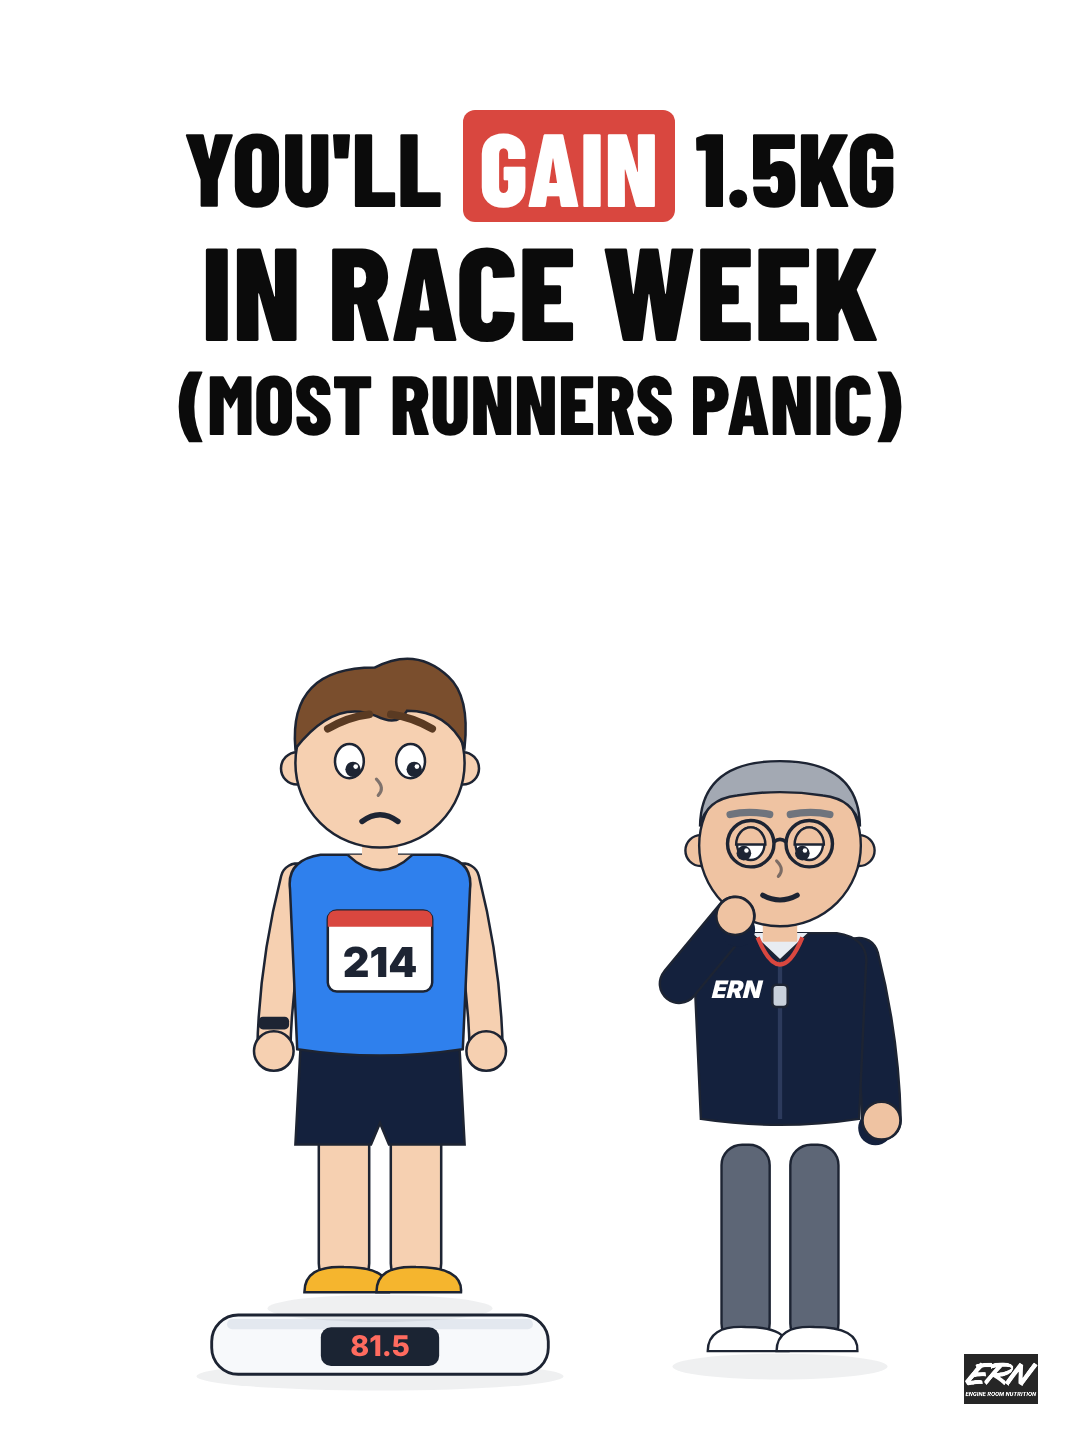
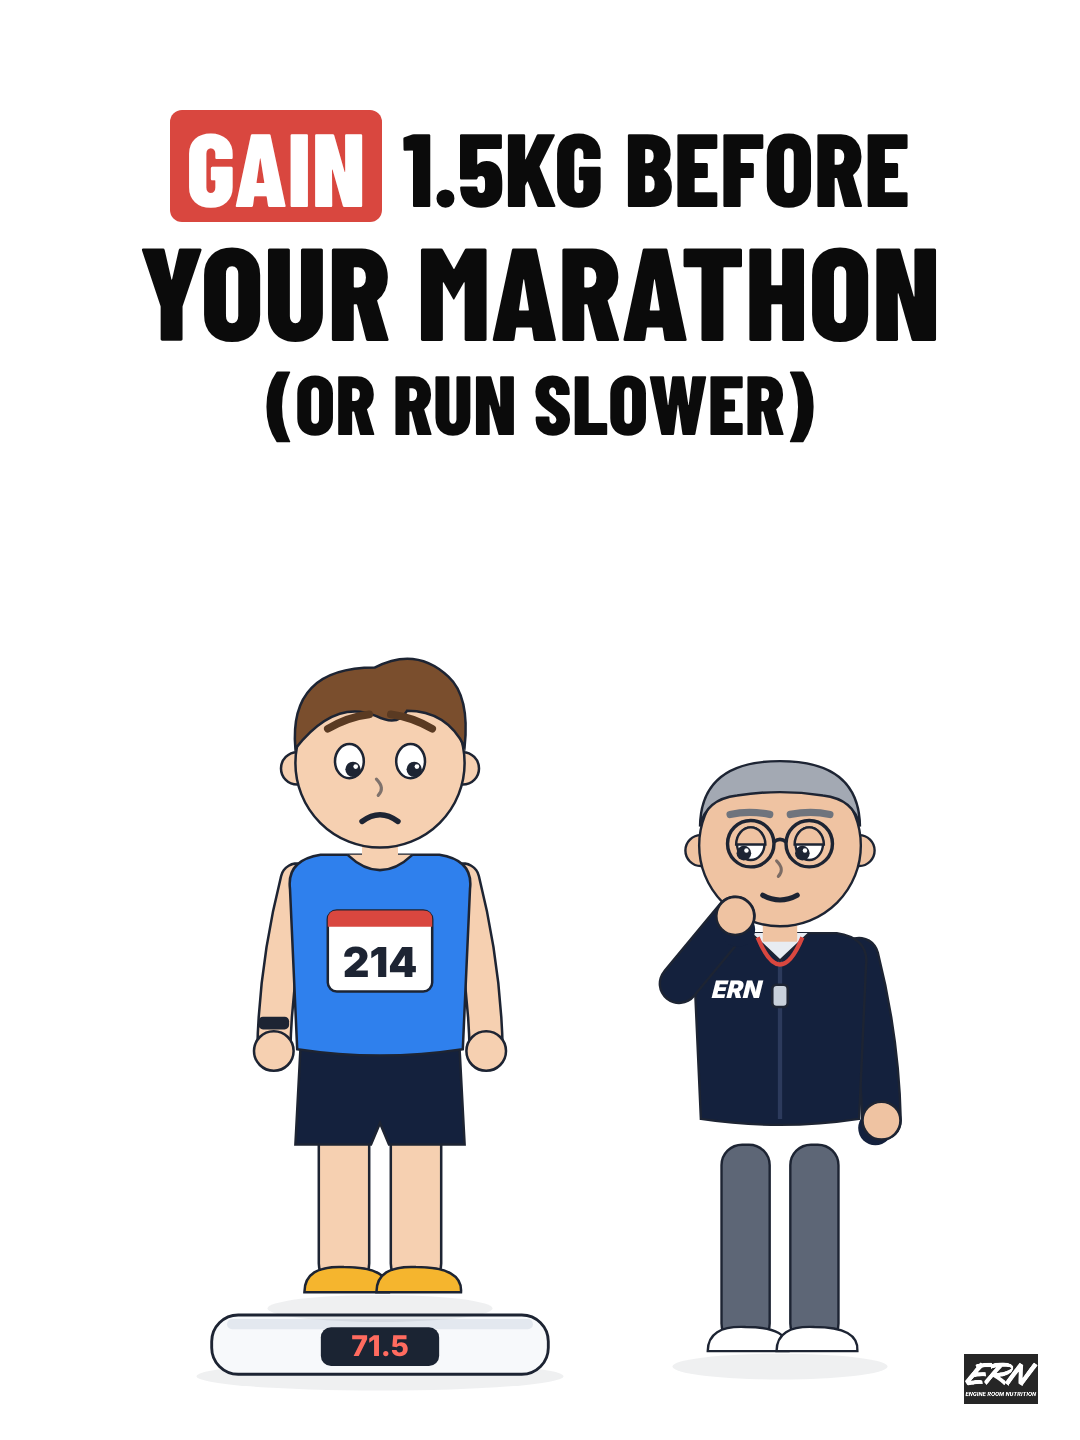
Heavier carousel: cover v3 GAIN 1.5KG BEFORE / YOUR MARATHON / (OR RUN SLOWER), slides 2-5 rewritten, weights 70 to 71.5kg on every readout, scales and caption
Claude-Session: https://claude.ai/code/session_019dGKws7fHV6RYzHGcGrSoU

Changed region(s): [[0.1222, 0.0625, 0.8861, 0.3125]]

diff --git a/motion/carousel-heavier/carousel.html b/motion/carousel-heavier/carousel.html
@@ -1,5 +1,5 @@
 <!doctype html><html><head><meta charset="utf-8"><title>Heavier carousel</title>
-<!-- YOU'LL GAIN 1.5KG / IN RACE WEEK / (MOST RUNNERS PANIC): 19 slides, our own runner and coach.
+<!-- GAIN 1.5KG BEFORE / YOUR MARATHON / (OR RUN SLOWER): 19 slides, our own runner and coach.
      ?n=1..19, ?h=1440 (TikTok photo mode, 3:4) or ?h=1350 (Instagram, 4:5). -->
 <style>
 @font-face{font-family:'Barlow Condensed';font-weight:800;src:url(../fonts/BarlowCondensed-800-normal.woff2) format('woff2');}
@@ -154,19 +154,19 @@ function panel(x,y,w,h,label){ return `<g><rect x="${x}" y="${y+6}" width="${w}"
 
 // ---- slides ----
 const R='runner', C='coach', cy=CARDY;
-const twoCards=(red)=>card(300,cy,400,160,'MONDAY','80kg')+card(780,cy,400,160,'RACE MORNING','81.5kg',red?RED:OL);
+const twoCards=(red)=>card(300,cy,400,160,'MONDAY','70kg')+card(780,cy,400,160,'RACE MORNING','71.5kg',red?RED:OL);
 const SL=[
- ['COVER', ()=>scales(380,FLOOR-6,'81.5',1.02)+person(R,380,.9,'worried',{gy:8,gx:4,y:FLOOR-58})+person(C,780,.86,'calm',{gx:-8,gy:4,l:'chin'})],
- ["Same runner. 80kg on Monday, 81.5kg on race morning. Which one runs faster?", ()=>twoCards(false)+person(R,290,1.1,'ask',{r:'chin',gx:6,y:H+180})+person(C,790,1.1,'calm',{gx:-6,y:H+180})],
- ["Monday, obviously. Lighter is faster.", ()=>card(540,cy,420,160,'MONDAY','80kg')+person(R,540,1.25,'sure',{l:'hip',r:'thumb',y:H+250})],
- ["Race morning.", ()=>card(540,cy,420,160,'RACE MORNING','81.5kg',RED)+person(C,540,1.25,'calm',{l:'hip',y:H+250})],
- ["Wait. Why?", ()=>person(R,540,1.45,'wide',{l:'out',r:'out',y:H+330})],
+ ['COVER', ()=>scales(380,FLOOR-6,'71.5',1.02)+person(R,380,.9,'worried',{gy:8,gx:4,y:FLOOR-58})+person(C,780,.86,'calm',{gx:-8,gy:4,l:'chin'})],
+ ["Same runner. Monday: 70kg. Race morning: 71.5kg.", ()=>twoCards(false)+person(R,290,1.1,'ask',{r:'chin',gx:6,y:H+180})+person(C,790,1.1,'calm',{gx:-6,y:H+180})],
+ ["Heavier is faster? That's backwards.", ()=>card(540,cy,420,160,'MONDAY','70kg')+person(R,540,1.25,'ask',{l:'hip',r:'chin',gx:6,y:H+250})],
+ ["Race morning wins. Every time.", ()=>card(540,cy,420,160,'RACE MORNING','71.5kg',RED)+person(C,540,1.25,'calm',{l:'hip',y:H+250})],
+ ["Why?", ()=>person(R,540,1.45,'wide',{l:'out',r:'out',y:H+330})],
  ["Because that 1.5kg is fuel.", ()=>gauge(540,cy,1,'+1.5kg OF FUEL',.95)+person(C,500,1.35,'calm',{r:'out',gy:-4,y:H+300})],
  ["Every gram of fuel you store brings about 3 grams of water. That's your 1.5kg.", ()=>water(560,cy+70)+person(C,500,1.35,'neutral',{r:'out',gx:4,gy:-6,y:H+300})],
  ["Same runner. One of them just packed the fuel.", ()=>twoCards(true)+person(R,290,1.1,'wide',{gx:8,y:H+180})+person(C,790,1.1,'happy',{l:'thumb',y:H+180})],
  ["So I shouldn't cut carbs on Friday?", ()=>person(R,540,1.45,'ask',{r:'chin',gx:8,gy:-5,y:H+330})],
  ["Cut them and you'll start Sunday lighter. And emptier.", ()=>gauge(540,cy,.2,'EMPTIER',.95)+person(C,540,1.35,'serious',{l:'hip',y:H+300})],
- ["That's carb loading. The scales say heavier. Your legs say full.", ()=>scales(300,cy+80,'81.5',.9)+gauge(770,cy,1,'FULL',.85)+person(C,540,1.3,'happy',{l:'thumb',y:H+290})],
+ ["That's carb loading. The scales say heavier. Your legs say full.", ()=>scales(300,cy+80,'71.5',.9)+gauge(770,cy,1,'FULL',.85)+person(C,540,1.3,'happy',{l:'thumb',y:H+290})],
  ["OK. What else am I getting wrong?", ()=>person(R,540,1.45,'ask',{l:'hip',gx:-6,y:H+330})],
  ["Pasta party on Saturday night, or carbs at every meal from Friday?", ()=>panel(70,cy-10,450,250,'SATURDAY NIGHT')+plate(295,cy+150,150,'pasta')+panel(560,cy-10,450,250,'EVERY MEAL, FRI + SAT')+plate(650,cy+120,52,'bagel')+plate(770,cy+120,52,'rice')+juice(880,cy+150,74)+plate(700,cy+190,46,'toast')+banana(840,cy+200,.75)+person(R,300,1.0,'neutral',{gx:-6,gy:-6,y:H+150})+person(C,780,1.0,'calm',{gx:6,gy:-6,y:H+150})],
  ["The pasta party, surely. Everyone does it.", ()=>plate(810,cy+90,160,'pasta')+person(R,380,1.35,'sure',{r:'out',y:H+300})],
@@ -180,7 +180,7 @@ const sl=SL[n-1];
 const t=document.getElementById('t');
 if(sl[0]==='COVER'){
   t.style.display='none'; const cv=document.getElementById('cv'); cv.style.display='block';
-  cv.innerHTML=`<div class="l1">YOU'LL <span class="hl">GAIN</span> 1.5KG</div><div class="l2">IN RACE WEEK</div><div class="l3">(MOST RUNNERS PANIC)</div>`;
+  cv.innerHTML=`<div class="l1"><span class="hl">GAIN</span> 1.5KG BEFORE</div><div class="l2">YOUR MARATHON</div><div class="l3">(OR RUN SLOWER)</div>`;
 } else {
   t.style.top=TXT[0]+'px'; t.style.height=(TXT[1]-TXT[0])+'px'; t.textContent=sl[0];
   let fs=50; while(t.scrollHeight>TXT[1]-TXT[0] && fs>36){fs-=2;t.style.fontSize=fs+'px';}

diff --git a/ideas/engine-room-nutrition/2026-11-16-carousel-heavier.md b/ideas/engine-room-nutrition/2026-11-16-carousel-heavier.md
@@ -6,23 +6,23 @@ format: TikTok photo mode (ERN) tonight, 1080 x 1440 (3:4); Instagram carousel (
 images: motion/carousel-heavier/tiktok-3x4/slide-01..19.png, motion/carousel-heavier/instagram-4x5/slide-01..19.png (page motion/carousel-heavier/carousel.html, ?n=&h=)
 ---
 
-# YOU'LL GAIN 1.5KG / IN RACE WEEK / (MOST RUNNERS PANIC)
+# GAIN 1.5KG BEFORE / YOUR MARATHON / (OR RUN SLOWER)
 
 ## Gate fields
-- Cover OST: YOU'LL GAIN 1.5KG / IN RACE WEEK / (MOST RUNNERS PANIC), GAIN in red, in the fourth-hour title style. v1 (YOU'LL BE 1.5KG HEAVIER / ON RACE MORNING / (AND FASTER FOR IT)) answered slide 2's quiz on the cover (ledger row 1, my miss); the cover now shows the problem, as the yogurt cover does
-- OST score: 9/10 (P210): pulse words GAIN and PANIC, you, one second, a fight (weight gain is bad), a number, the Outsider stops, the pub test, the bracket sting, the verdict up top. Arguable: only we could post it. MOST RUNNERS PANIC is Luke's coaching read, not a statistic
+- Cover OST: GAIN 1.5KG BEFORE / YOUR MARATHON / (OR RUN SLOWER), GAIN in red (Luke 16 Nov, from the ideas chat's cover review: v2 scored 7/10, no fight, not only-us, "most runners panic" unsourced, scale 81.5 against the brief's 70 to 71.5). Earlier: v1 answered the quiz (row 1)
+- OST score: 10/10 (the ideas chat's score, P210): an order that sounds wrong, the viewer, the number, the threat in brackets as the reason to swipe; true (loading adds about 1 to 2 kg; loaded runners ran faster, Atkinson 2011)
 - Repeat line: The scales say heavier. Your legs say full.
 - Characters: our own. The runner (bib 214, blue vest, navy shorts, yellow shoes, brown hair, a watch); the coach (ERN navy jacket, grey hair, round glasses, a whistle on a red lanyard). Luke 16 Nov: the coach is drawn with light skin
-- Weights: Monday 80kg, race morning 81.5kg (Luke 16 Nov: start at the base weight)
+- Weights: Monday 70kg, race morning 71.5kg (Luke 16 Nov, the cover review; replaces his earlier 80kg). Every readout, the scales and the caption match
 
 ## The slides (one beat each; P211)
 | # | Picture | Text |
 |---|---|---|
-| 1 | Both: the runner on the scales (81.5), worried; the coach beside, hand on chin | **YOU'LL GAIN 1.5KG / IN RACE WEEK / (MOST RUNNERS PANIC)** (GAIN in a red box) |
-| 2 | Runner (waist-up close-up) | Same runner. 80kg on Monday, 81.5kg on race morning. Which one runs faster? |
-| 3 | Runner (waist-up close-up) | Monday, obviously. Lighter is faster. |
-| 4 | Coach (waist-up close-up) | Race morning. |
-| 5 | Runner (waist-up close-up) | Wait. Why? |
+| 1 | Both: the runner on the scales (71.5), worried; the coach beside, hand on chin | **GAIN 1.5KG BEFORE / YOUR MARATHON / (OR RUN SLOWER)** (GAIN in a red box) |
+| 2 | Both, closer; the two readouts (70kg, 71.5kg) | Same runner. Monday: 70kg. Race morning: 71.5kg. |
+| 3 | Runner (waist-up close-up) | Heavier is faster? That's backwards. |
+| 4 | Coach (waist-up close-up) | Race morning wins. Every time. |
+| 5 | Runner (waist-up close-up) | Why? |
 | 6 | Coach (waist-up close-up) | Because that 1.5kg is fuel. |
 | 7 | Coach (waist-up close-up) | Every gram of fuel you store brings about 3 grams of water. That's your 1.5kg. |
 | 8 | Both (both, closer) | Same runner. One of them just packed the fuel. |
@@ -39,7 +39,7 @@ images: motion/carousel-heavier/tiktok-3x4/slide-01..19.png, motion/carousel-hea
 | 19 | Both (both, closer) | Follow if you want to start Sunday with a full tank. |
 
 ## Caption
-Same runner, 80kg on Monday and 81.5kg on race morning, but faster on race morning. That extra weight is the fuel you packed.
+Same runner, 70kg on Monday and 71.5kg on race morning, but faster on race morning. That extra weight is the fuel you packed.
 
 Every gram of carbs your muscles store holds about 3 grams of water with it (2.7 to 4 g in a 2016 study), so the scales go up in race week. About 1 to 2 kg is typical, but that's a coaching estimate built on the water ratio, because no study has weighed runners through a load, so your number may differ.
 
@@ -58,9 +58,9 @@ How much did the scales go up in your race week?
 | Claim | Source | Status |
 |---|---|---|
 | About 3 grams of water with each gram of stored carbs | FACTS (carb loading and the scales: 2.7 to 4 g, 2016 J Appl Physiol; "about") | Pass |
-| 1.5kg heavier (80 to 81.5kg) | An example inside "about 1 to 2 kg is typical" (coaching estimate, said as one in the caption) | Pass |
-| The loaded runner runs faster | FACTS (Atkinson 2011; Hawley 1997) | Pass |
-| One dinner can't fit 700 grams; two days of meals can (Friday and Saturday) | FACTS (8 to 10 g/kg a day: 640 to 800 g at 80 kg; our 36 to 48 hour load, the carb load script) | Pass |
+| 1.5kg heavier (70 to 71.5kg) | An example inside "about 1 to 2 kg is typical" (coaching estimate, said as one in the caption) | Pass |
+| The loaded runner runs faster; "Race morning wins. Every time." (slide 4) | FACTS (Atkinson 2011: significantly faster on average; Hawley 1997) | Luke to OK: "every time" goes past the studies, which show an average |
+| One dinner can't fit 700 grams; two days of meals can (Friday and Saturday) | FACTS (8 to 10 g/kg a day: 560 to 700 g at 70 kg, the top of the range; our 36 to 48 hour load, the carb load script) | Pass |
 | Every meal from Friday, not one pasta dinner | The carb load script (Friday and Saturday meal plan; Saturday's last meal a normal plate at 5pm) | Pass |
 | Caption: 480 to 600 / 560 to 700 / 640 to 800 g; white, low fibre and fat; last meal 5pm; breakfast 3 hours out | The carb load script (16 Oct), arithmetic checked there | Pass |
 

diff --git a/CLAUDE.md b/CLAUDE.md
@@ -222,7 +222,7 @@ a new cause becomes a new row in the same turn.**
 
 **Posted 11 Nov 8:47pm: THE 10% MILEAGE RULE / FAILED ITS ONLY TRIAL.** ERN TikTok at ~14h: 489 views, **13.6s, 3.05% full, 3 follows** (the body beat our last four), 2 saves, 0 shares, **most left at 0:01**. Frame one: a small mid-blue title on Luke's chest plus a cartoon runner from 0:00 (row 22, third post running); the title had no "you" and no feeling word. IG + FB at ~13.5h: **7,238 views (2,260 IG, 4,978 FB), skip 41.1% Lower (best of the last four), 16s, saves 0.4%, shares 0.1%, 0 follows, Reels tab top source**; flat overnight after 2h (evening posts 2 for 2); a step down at 0:38 to 0:45 at the CTA (row 9 repeat); the send line at 1:26 reached ~3%. Forecast 9K to 12K. Fixes: CTA to the end or the pinned comment, send line after the worked example, save after the first keepable number, 7am (`ideas/2026-11-12-10-percent-rule-review.md`). New title spec and feeling devices: `ideas/engine-room-nutrition/2026-11-12-feel-something-osts.md`. Fri: THE 5 STAGES OF THE / MARATHON WALL / (EACH ONE MORE BRUTAL). New ledger cause for the gate chat: a title you can't read in one second.
 
-**16 Nov: heavier carousel drawn** (`ideas/engine-room-nutrition/2026-11-16-carousel-heavier.md`): YOU'LL GAIN 1.5KG / IN RACE WEEK / (MOST RUNNERS PANIC) (the v1 cover answered the quiz), 19 slides, waist-up close-ups, `motion/carousel-heavier/tiktok-3x4/` (TikTok tonight) and `instagram-4x5/` (Wed or Thu if over half the photos are viewed); caption, pinned comment, FACTS "Carb loading and the scales"; P211 (carousels: one beat a slide, the look). Fourth hour at 12h: 15K, skip 27.0%, 29s; its frame one is the template.
+**16 Nov: heavier carousel drawn** (`ideas/engine-room-nutrition/2026-11-16-carousel-heavier.md`): GAIN 1.5KG BEFORE / YOUR MARATHON / (OR RUN SLOWER) (cover v3, 10/10; v1 answered the quiz, v2 scored 7), weights 70kg to 71.5kg, 19 slides, waist-up close-ups, `motion/carousel-heavier/tiktok-3x4/` (TikTok tonight) and `instagram-4x5/` (Wed or Thu if over half the photos are viewed); caption, pinned comment, FACTS "Carb loading and the scales"; P211 (carousels: one beat a slide, the look). Fourth hour at 12h: 15K, skip 27.0%, 29s; its frame one is the template.
 
 **16:9 rule for graphics (Luke 13 Nov):** every cover, card and picture Luke pastes above the video is 1920 x 1080 (YouTube thumbnail shape): `motion/covers/*-cover-16x9.png`, `motion/wall-cards/16x9/`, `motion/hour4-cards/16x9/`; scenes are already 16:9.
 
